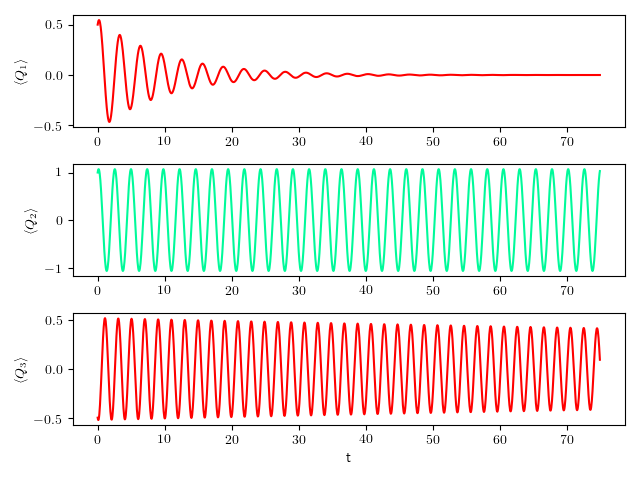
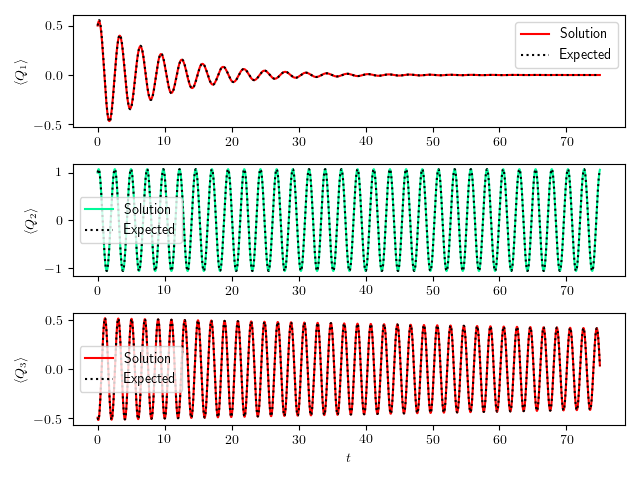
Same commit without npy

diff --git a/Python/DensitySims.py b/Python/DensitySims.py
@@ -2,53 +2,49 @@ from moments_plotter import *
 from numpy import sqrt, array, trace, zeros, kron
 from tqdm import tqdm
 from common import scream
+import qutip
 import warnings
 warnings.filterwarnings("ignore")
 
-s = 5  # The amount of states that we consider per node
+s = 2  # The amount of states that we consider per node
 K = s ** N  # The amount of states
 
-# The basic 2-level density matrix of one node with nonzero Q-eigenvalue
-rho_Q10 = array([
-    [2, 1],
-    [1, 2]
-])
 
-rho_P10 = array([
-    [2, -1j],
-    [+1j, 2]
-])
+# The s-level density matrix of one node with nonzero Q-eigenvalue
+def rho_q_basic():
+    rho_Q10s = zeros((s, s))
+    np.fill_diagonal(rho_Q10s, 2)
+    
+    if s > 1:
+        np.fill_diagonal(rho_Q10s[1:], 1)
+        np.fill_diagonal(rho_Q10s[:, 1:], 1)
+    return rho_Q10s
 
-# The s-level density matrix of one node with some nonzero Q-eigenvalue
-rho_Q10s = zeros((s, s))
-# rho_Q10s = 1
-np.fill_diagonal(rho_Q10s, 2)
-np.fill_diagonal(rho_Q10s[1:], 1)
-np.fill_diagonal(rho_Q10s[:, 1:], 1)
 
-rho_P10s = zeros((s, s))
-# rho_P10s = 1
-np.fill_diagonal(rho_P10s[1:], 1)
-np.fill_diagonal(rho_P10s[:, 1:], -1)
-rho_P10s = rho_P10s * 1j
-np.fill_diagonal(rho_P10s, -2)
+# The s-level density matrix of one nodes with nonzero P-eigenvalue
+def rho_p_basic():
+    rho_P10s = zeros((s, s), dtype=complex)
+    np.fill_diagonal(rho_P10s, 2)
+    
+    if s > 1:
+        np.fill_diagonal(rho_P10s[1:], 1j)
+        np.fill_diagonal(rho_P10s[:, 1:], -1j)
+    return rho_P10s
 
-# print(rho_P10)
-# print(rho_P10s)
 
-# The s-level density matrix of several nodes with nonzero Q-eigenvalue for node 0
-rho_QN0 = kron(np.identity(s ** (N - 1)), rho_Q10s) / K
-# Nonzero for node N-1
-rho_QNN_1 = kron(kron(rho_Q10s, rho_Q10s), rho_Q10s) / K
-rho_PNN_1 = kron(rho_P10s, np.identity(s ** (N - 1))) / K
-
-rho_0 = rho_QNN_1 - rho_PNN_1
-
+# The s-level density matrix of several nodes with nonzero eigenvalue for some operator
+def rho_init(base):
+    ret = sum([kron(kron(np.identity(s**n), base), np.identity(s**(N - n - 1)))
+                      for n in range(N)])
+    print(ret)
+    return ret / trace(ret)
 
 
 def assert_density(dens):
     # Assert Hermitian
     assert np.all(dens == dens.conj().T)
+    # Assert unit trace
+    assert abs(trace(dens) - 1) < tol
     # Assert positive
     assert all(np.linalg.eigvalsh(dens) > 0)
 
@@ -107,45 +103,47 @@ def com(a, b):
     if 2 == len(b.shape) and len(a.shape) == 2:
         return a.dot(b) - b.dot(a)
     elif len(b.shape) == 2:
-        return array([a[i].dot(b) - b.dot(a[i])
-                      for i in range(a.shape[0])])
+        return array([a[n].dot(b) - b.dot(a[n])
+                      for n in range(a.shape[0])])
     elif len(a.shape) == 2:
-        return array([a.dot(b[i]) - b[i].dot(a)
-                      for i in range(b.shape[0])])
+        return array([a.dot(b[n]) - b[n].dot(a)
+                      for n in range(b.shape[0])])
     else:
-        return array([a[i].dot(b[i]) - b[i].dot(a[i])
-                      for i in range(a.shape[0])])
+        return array([a[n].dot(b[n]) - b[n].dot(a[n])
+                      for n in range(a.shape[0])])
 
 
 def anti(a, b):
     if 2 == len(b.shape) and len(a.shape) == 2:
         return a.dot(b) + b.dot(a)
     elif len(b.shape) == 2:
-        return array([a[i].dot(b) + b.dot(a[i])
-                         for i in range(a.shape[0])])
+        return array([a[n].dot(b) + b.dot(a[n])
+                         for n in range(a.shape[0])])
     elif len(a.shape) == 2:
-        return array([a.dot(b[i]) + b[i].dot(a)
-                         for i in range(b.shape[0])])
+        return array([a.dot(b[n]) + b[n].dot(a)
+                         for n in range(b.shape[0])])
     else:
-        return array([a[i].dot(b[i]) + b[i].dot(a[i])
-                         for i in range(a.shape[0])])
+        return array([a[n].dot(b[n]) + b[n].dot(a[n])
+                         for n in range(a.shape[0])])
 
 
 def expval(op, dens):
     return trace(op.dot(dens))
 
 
-P = array([p(i) for i in range(N)])
-Q = array([q(i) for i in range(N)])
+rho_0 = rho_init(rho_q_basic() + rho_p_basic())
+assert_density(rho_0)
+P = array([p(n) for n in range(N)])
+Q = array([q(n) for n in range(N)])
 H = h()
 
+print(expval(Q[0], rho_0))
 # print("P:", P)
 # print("Q:", Q)
 # print("H:", H)
 
-print(np.linalg.eigvalsh(-1j*com(H, rho_0)))
-# assert_density(-1j*com(H, rho_0))
-# print(com(P[2], anti(Q[2], rho_0))[0])
+print(np.linalg.eigvalsh(rho_0 - dt*1j*com(H, rho_0)))
+# print(trace(-1j*com(H, rho_0)))  # Should be 0
 
 
 # The Liouvillian superoperator
@@ -164,15 +162,14 @@ def liouville_explicit(rho):
     Sum = 0
 
     # Sum over all the nodes
-    for i in range(N):
-        Sum += 1j * Gamma[i] * (com(Q[i], anti(P[i], rho)) - com(P[i], anti(Q[i], rho)))
-        Sum += D[i] * (com(Q[i], com(Q[i], rho)) - com(P[i], com(P[i], rho)) / Omega[i] ** 2)
-    
-    # if random() < 0.01:
-    #     print(Sum)
+    for n in range(N):
+        Sum += 1j * Gamma[n] * (com(Q[n], anti(P[n], rho)) - com(P[n], anti(Q[n], rho)))
+        Sum += D[n] * (com(Q[n], com(Q[n], rho)) - com(P[n], com(P[n], rho)) / Omega[n] ** 2)
 
     return -1j * com(H, rho) - 1 / 4 * Sum
 
+
+print(np.linalg.eigvalsh(liouville(rho_0)))
 
 Rho = np.zeros((it, K, K), dtype=complex)
 Rho[0] = rho_0
@@ -184,40 +181,43 @@ ev_P = zeros((N, it))
 ev_QQ = zeros((M, it))
 ev_PP = zeros((M, it))
 
+screamed = False
+
 if recalculate:
-    for t in tqdm(range(1, it)):
-        Rho[t] = rk4(liouville_explicit, Rho[t - 1])
+    for t in tqdm(range(it)):
+        if t != 0:
+            Rho[t] = rk4(liouville_explicit, Rho[t - 1])
         
-        print(t)
         # assert np.all(Rho[t] == Rho[t].conj().T)
         # assert_density(Rho[t])
+        # print(trace(Rho[t]))
 
-        ev_Q[:, t] = array([expval(Q[i], Rho[t]) for i in range(N)])
-        ev_P[:, t] = array([expval(P[i], Rho[t]) for i in range(N)])
-        ev_QQ[:, t] = array([expval(Q[i].dot(Q[j]), Rho[t]) for i in range(N) for j in range(i, N)])
-        ev_PP[:, t] = array([expval(P[i].dot(P[j]), Rho[t]) for i in range(N) for j in range(i, N)])
+        ev_Q[:, t] = array([expval(Q[n], Rho[t]) for n in range(N)])
+        ev_P[:, t] = array([expval(P[n], Rho[t]) for n in range(N)])
+        ev_QQ[:, t] = array([expval(Q[n].dot(Q[j]), Rho[t]) for n in range(N) for j in range(n, N)])
+        ev_PP[:, t] = array([expval(P[n].dot(P[j]), Rho[t]) for n in range(N) for j in range(n, N)])
         
-        print(ev_Q[2, t])
-        
-        if np.nan == ev_Q[2, t]:
+        if np.isnan(ev_Q[0, t]) and not screamed:
             scream()
+            screamed = True
 
     np.save("rho.npy", Rho)
 else:
     Rho = np.load("rho.npy")
-    ev_Q = array([[trace(Q[i].dot(Rho[t])) for t in range(it)] for i in range(N)])
-    ev_P = array([[trace(P[i].dot(Rho[t])) for t in range(it)] for i in range(N)])
-    ev_QQ = array([[trace(Q[i].dot(Q[j]).dot(Rho[t])) for t in range(it)] for i in range(N) for j in range(i, N)])
-    ev_PP = array([[trace(P[i].dot(Q[j]).dot(Rho[t])) for t in range(it)] for i in range(N) for j in range(i, N)])
+    ev_Q = array([[expval(Q[n], Rho[t]) for t in range(it)] for n in range(N)])
+    ev_P = array([[expval(P[n], Rho[t]) for t in range(it)] for n in range(N)])
+    ev_QQ = array([[expval(Q[n].dot(Q[j]), Rho[t]) for t in range(it)] for n in range(N) for j in range(n, N)])
+    ev_PP = array([[expval(P[n].dot(P[j]), Rho[t]) for t in range(it)] for n in range(N) for j in range(n, N)])
 
 
 # print("Q:", ev_Q)
 # print("PP:", ev_PP)
 
 # Plots
-plt.yscale("log")
+# plt.yscale("log")
+print(ev_Q[0])
 first_plot_separate(ev_Q, "Q", True, ev_P)
-plt.yscale("symlog")
-plt.ylim([-1e300, 1e300])
-first_plot_separate(ev_P, "P", True)
+# plt.yscale("symlog")
+# plt.ylim([-1e300, 1e300])
+# first_plot_separate(ev_P, "P", True)
 # second_plot_separate(ev_QQ, "Q", colorized=True)

diff --git a/Python/moments_plotter.py b/Python/moments_plotter.py
@@ -50,6 +50,11 @@ def calc_v_2(pos, mom, n, contains_all=True, r=None):
                                   B_n * np.cos(2*Omega[n]*T))
 
 
+# If the + sign is correct
+# calc_u = calc_u_2
+# calc_v = calc_v_2
+
+
 def first_plot_combined(funcs, name):
     for n in range(N):
         plt.plot(T, funcs[n])
@@ -123,8 +128,8 @@ def second_plot_diagonal(pos, name, colorized=False,
         plt.plot(T[:it_med], pos[m, :it_med], color)
 
         if mom is not None:
-            plt.plot(T[:it_med], ((calc_u_2(pos, mom, n, contains_all) +
-                                   calc_v_2(pos, mom, n, contains_all, r))/2/Omega[n]**2)[:it_med], "k:")
+            plt.plot(T[:it_med], ((calc_u(pos, mom, n, contains_all) +
+                                   calc_v(pos, mom, n, contains_all, r))/2/Omega[n]**2)[:it_med], "k:")
             plt.legend(["Solution", "Expected"])
 
         plt.ylabel(f"$\\left<{name}_{n + 1}^2\\right>$")
@@ -157,7 +162,7 @@ def second_plot_u(qq, pp, name1, name2, colorized=False, expect=False):
         plt.ylabel(f"$\\left<\\Omega_{n + 1}^2 {name1}_{n + 1}^2 + {name2}_{n + 1}^2\\right>$")
 
         if expect:
-            plt.plot(T[:it_med], calc_u_2(qq, pp, n)[:it_med], "k:")
+            plt.plot(T[:it_med], calc_u(qq, pp, n)[:it_med], "k:")
             plt.legend(["Solution", "Expected"])
 
     plt.xlabel("$t$")

diff --git a/Python/MomentSims.py b/Python/MomentSims.py
@@ -26,7 +26,7 @@ for i in range(N):
 # The constant vector to be added (dY/dt = B*Y + L)
 L = np.zeros(2*M + N**2)
 for i in range(N):
-    L[num(i, i)] = + D[i]/2/Omega[i]**2  # I derived a - sign, but let's try +
+    L[num(i, i)] = - D[i]/2/Omega[i]**2  # I derived a - sign, but let's try +
     L[num(i, i) + M] = D[i]/2
 
 
@@ -133,21 +133,16 @@ def get_osc_data(func):
     pass
 
 
-print("F:", F)
-print("D:", D)
 print("L:", L)
-print("C:", C)
-print("Gamma:", Gamma)
-print("Omega:", Omega)
 
 nodes, modes, momenta = first_order()
 first_plot_separate(nodes, "q")
-first_plot_separate(modes, "Q", True, momenta)
+first_plot_separate(modes, "Q", colorized=True, mom=momenta)
 
 nodes, modes, momenta = second_order()
 # second_plot_separate(nodes, "q")  # Not used in report
-second_plot_separate(modes, "Q", True)
-second_plot_diagonal(modes, "Q", True, momenta)
-second_plot_cross(modes, "Q")
-second_plot_u(modes, momenta, "Q", "P", True, True)
+# second_plot_separate(modes, "Q", colorized=True)
+# second_plot_diagonal(modes, "Q", colorized=True, mom=momenta)
+# second_plot_cross(modes, "Q")
+# second_plot_u(modes, momenta, "Q", "P", colorized=True, expect=True)
 # second_plot_v(modes, momenta, "Q", "P", True, True)  # Not used in report

diff --git a/Python/moments_common.py b/Python/moments_common.py
@@ -1,8 +1,8 @@
 import numpy as np
 
 N = 3
-T_F = 75
-it = 150
+T_F = 45
+it = 15000000
 it_med = it * 45//T_F
 it_short = it * 15//T_F
 dt = T_F/it
@@ -32,7 +32,7 @@ LambdaM2 = 0.4 * omega_1 * np.array([
 # The adjacency matrix which we are currently investigating
 Lambda = LambdaM0 if N == 1 else LambdaM1 if N == 2 else LambdaM2
 
-# omega = np.array([1.2, 1, 1.8])
+# omega = np.array([1.2, 1, 1.8]) if N == 3 else np.ones(N)
 omega = np.ones(N)
 temp = 10 * omega_1
 gamma = 0.07 * omega_1
@@ -45,6 +45,12 @@ Omega, F = np.linalg.eigh(HO - Lambda)
 Gamma = np.sum(F, 0)**2 * gamma
 D = Gamma * Omega / np.tanh(Omega/2/temp)
 C = Gamma * D / (4*Omega**2 + Gamma**2)
+
+print("D:", D)
+print("F:", F)
+print("C:", C)
+print("Gamma:", Gamma)
+print("Omega:", Omega)
 
 
 def tri(n):
